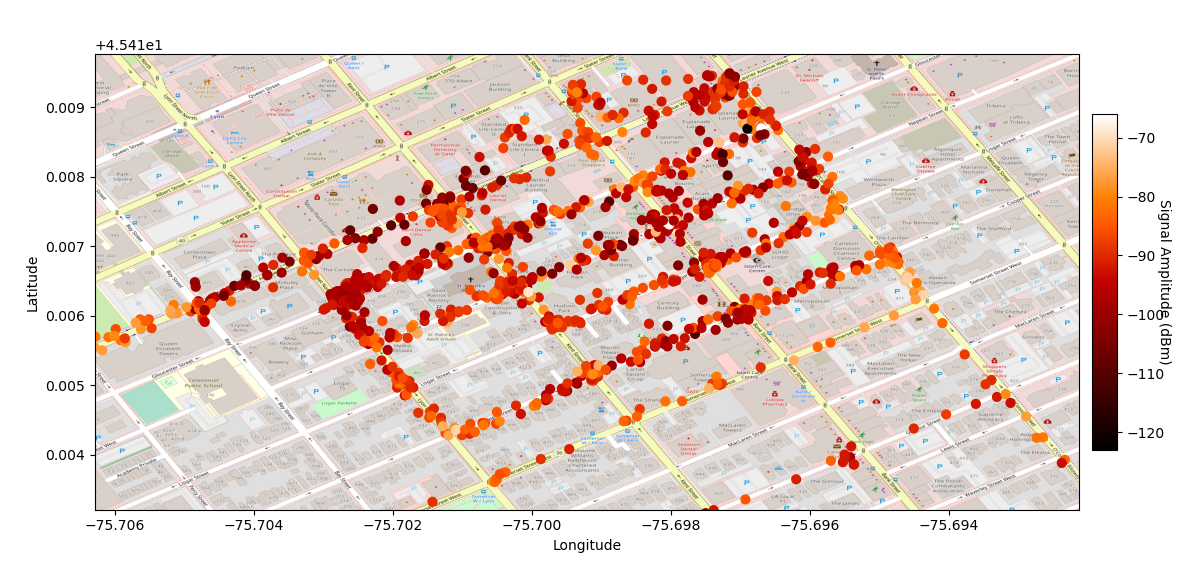
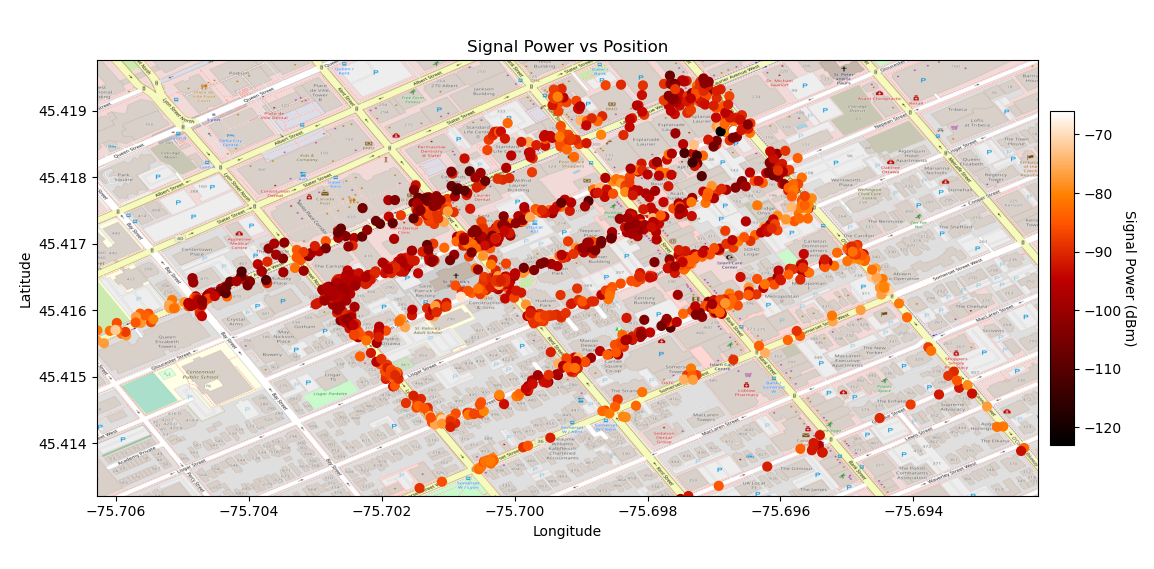
Fix heatmap label positon; Add new example plot

diff --git a/walksignal/walkplotter.py b/walksignal/walkplotter.py
@@ -57,6 +57,7 @@ def combine_plots(files):
     plt.ylim(map_bbox[2], map_bbox[3])
     plt.ylabel("Latitude", rotation=90)
     plt.xlabel("Longitude", rotation=0)
+    plt.title("Signal Power vs Position")
     ax = plt.axes()
 
     # Make sure to prevent lat/long from being displayed in scientific
@@ -64,7 +65,7 @@ def combine_plots(files):
     ax.ticklabel_format(useOffset=False)
     cax = fig.add_axes([ax.get_position().x1+0.01,ax.get_position().y0,0.02,ax.get_position().height])
     cbar = plt.colorbar(plot, cax = cax)
-    cbar.ax.set_ylabel("Signal Power (dBm)", rotation=270, labelpad=25)
+    cbar.ax.set_ylabel("Signal Power (dBm)", rotation=270, labelpad=10)
 
     plt.show()
 
